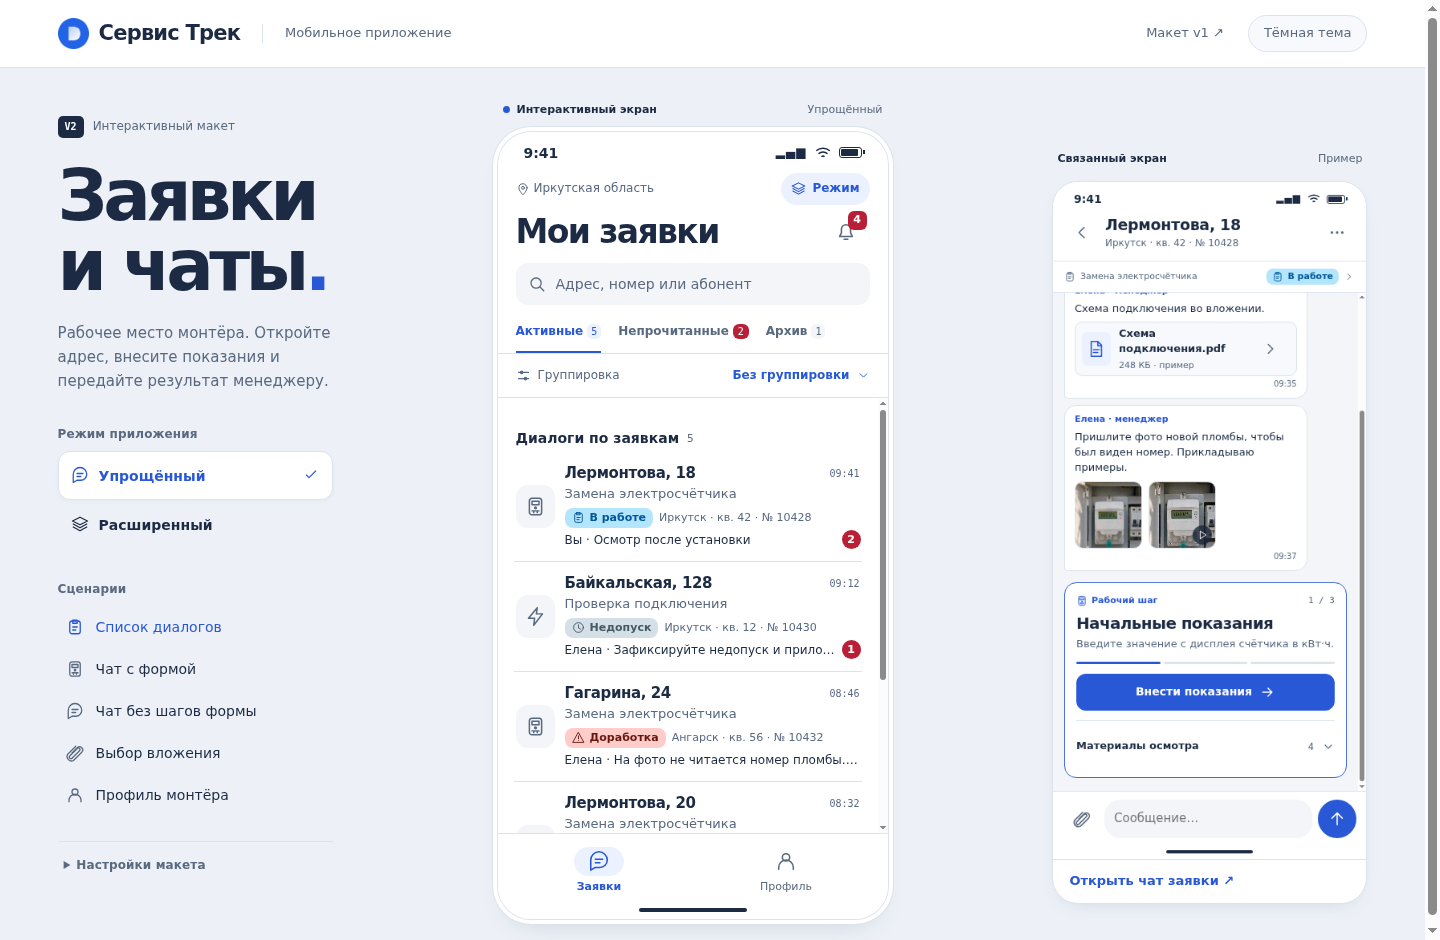
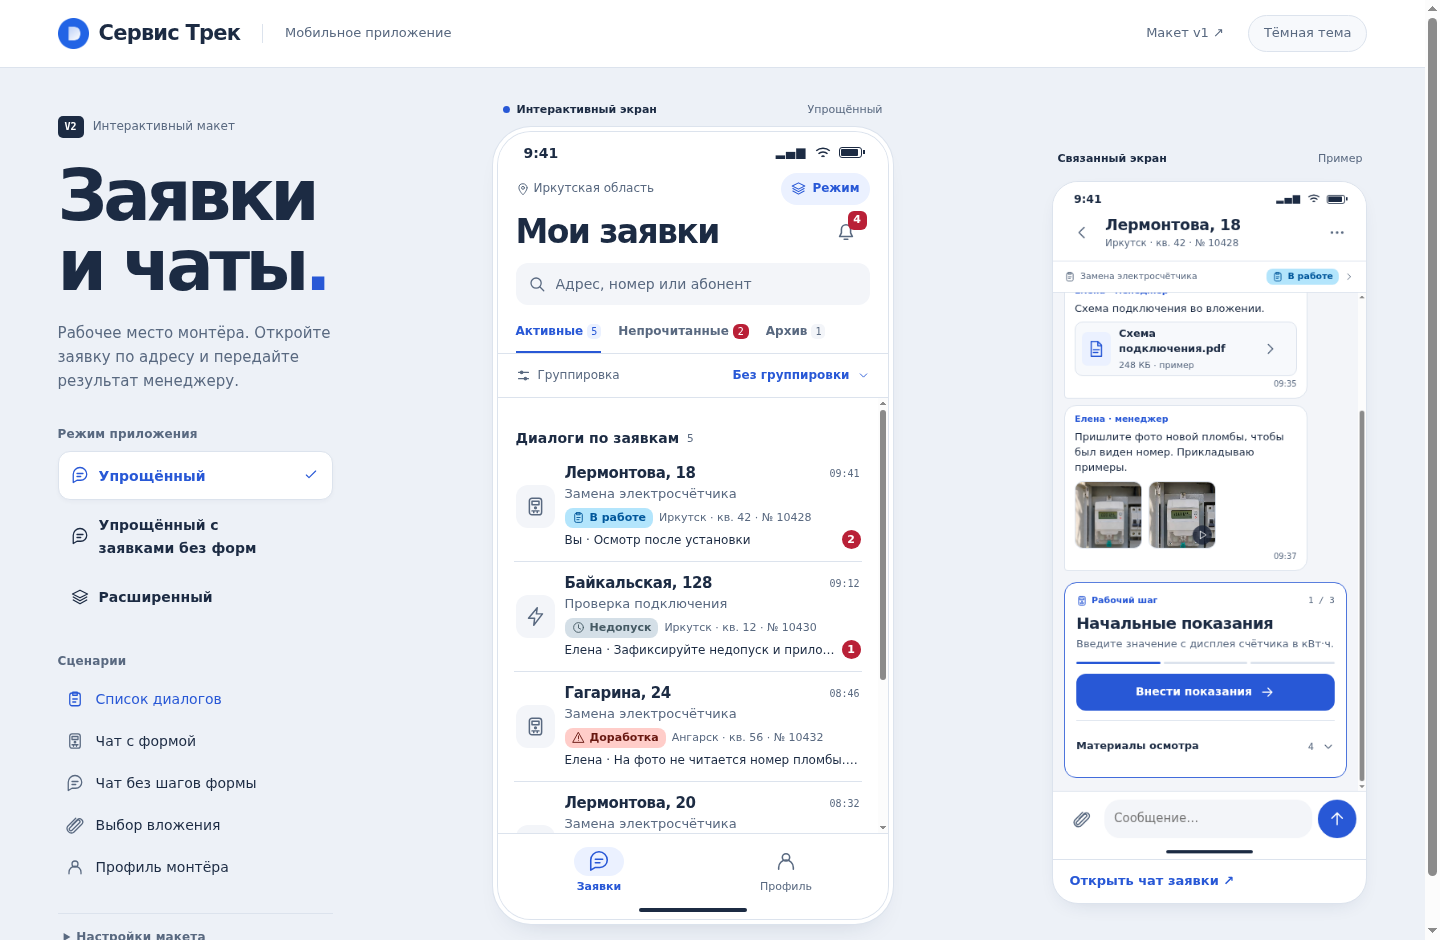
fix mobile v2

diff --git a/mobile/redesign/v2/app.js b/mobile/redesign/v2/app.js
@@ -14,11 +14,11 @@
   const groupingKey = 'service-track-mobile-v2-address-grouping';
   const chatGroupingKey = 'service-track-mobile-v2-chat-grouping';
   const modeKey = 'service-track-mobile-v2-mode';
-  s.mode = 'simple';
   try {
-    if (localStorage.getItem(modeKey) === 'expanded') s.mode = 'expanded';
+    const saved = localStorage.getItem(modeKey);
+    if (Object.hasOwn(K.studioModes, saved)) s.studioMode = saved;
   } catch {}
-  if (Object.hasOwn(K.modes, params.get('mode'))) s.mode = history.state?.mode || params.get('mode');
+  if (Object.hasOwn(K.studioModes, params.get('mode'))) s.studioMode = history.state?.mode || params.get('mode');
   let drafts = {};
   let readingEditor = '';
   s.attachmentDrafts = {};
@@ -94,13 +94,17 @@
   }
   function catalog() {
     const simple = s.mode === 'simple';
+    const noForms = s.studioMode === 'simple-no-forms';
     $('#studio-modes').innerHTML = K.modeChoices();
     const home = simple ? 'inbox' : s.listView;
     const checkpointId = simple ? 10428 : (K.requests.find((r) => r.status === 'IN_PROGRESS') || K.request()).id;
+    const workScenario = simple
+      ? ['chat', 'chat', 'Чат без шагов формы', noForms ? checkpointId : 10430]
+      : ['work', 'meter', 'Работа по заявке', checkpointId];
     const links = [
       [home, 'list', simple ? 'Список диалогов' : 'Очередь заявок'],
-      [simple ? 'chat' : 'work', 'meter', simple ? 'Чат с формой' : 'Работа по заявке', checkpointId],
-      ...(simple ? [['chat', 'chat', 'Чат без шагов формы', 10430]] : []),
+      ...(s.studioMode === 'simple' ? [['chat', 'meter', 'Чат с формой', checkpointId]] : []),
+      workScenario,
       [simple ? 'attach' : 'chats', simple ? 'clip' : 'chat', simple ? 'Выбор вложения' : 'Переписка', checkpointId],
       ['profile', 'user', 'Профиль монтёра'],
     ];
@@ -111,11 +115,12 @@
           : `<a href="${K.href(screen, id)}" ${s.screen === screen && (screen !== 'chat' || s.id === id) ? 'aria-current="page"' : ''}>${K.icon(icon)}${label}</a>`,
       )
       .join('');
-    $('#live-title').textContent = K.modes[s.mode];
+    $('#live-title').textContent = K.studioModes[s.studioMode];
     $('#studio-network').textContent = s.offline ? 'Восстановить связь' : 'Показать без сети';
     const list = [...mineLists, ...allLists, 'inbox', 'chats'].includes(s.screen);
     const target = list ? (simple ? 'chat' : 'chats') : home;
-    const img = simple ? (list ? 'thread' : 'inbox') : list ? 'chats' : 'queue';
+    const threadImage = noForms ? 'thread-simple-no-forms' : 'thread';
+    const img = simple ? (list ? threadImage : 'inbox') : list ? 'chats' : 'queue';
     const caption = simple
       ? list
         ? 'Открыть чат заявки'
@@ -149,7 +154,7 @@
     if (['locations', 'all-locations'].includes(s.screen)) renderedKey = s.screen + '/' + s.addressGrouping;
     else if (s.screen === 'inbox' || s.screen === 'chats')
       renderedKey = [s.screen, s.chatGrouping, s.screen === 'inbox' ? s.inboxFilter : ''].join('/');
-    else if (s.screen === 'chat') renderedKey = [s.screen, s.id, s.mode].join('/');
+    else if (s.screen === 'chat') renderedKey = [s.screen, s.id, s.studioMode].join('/');
     else renderedKey = s.screen + '/' + s.id;
     const newScroll = $('#app .scroll-content');
     if (newScroll)
@@ -202,7 +207,7 @@
         screen = 'chat';
     } else if (screen === 'inbox') screen = s.listView;
     if (screen !== requested) history.replaceState(history.state, '', K.href(screen, id));
-    if (params.has('mode')) history.replaceState({...history.state, mode: s.mode}, '');
+    if (params.has('mode')) history.replaceState({...history.state, mode: s.studioMode}, '');
     s.screen = screen;
     if (mineLists.includes(screen)) {
       s.listOrigin = s.listView = screen;
@@ -394,13 +399,10 @@
     $('#messages').scrollTop = $('#messages').scrollHeight;
   }
   function goToMode(mode) {
-    if (!Object.hasOwn(K.modes, mode)) return;
-    const same = s.mode === mode;
-    s.mode = mode;
-    if (params.has('mode')) {
-      // Explicit demo links choose the initial mode. A manual choice also survives reload.
-      history.replaceState({...history.state, mode}, '');
-    }
+    if (!Object.hasOwn(K.studioModes, mode)) return;
+    const same = s.studioMode === mode;
+    s.studioMode = mode;
+    if (params.has('mode')) history.replaceState({...history.state, mode}, '');
     try {
       localStorage.setItem(modeKey, mode);
     } catch {}
@@ -410,7 +412,7 @@
       return;
     }
     const working = ['chat', 'detail', 'work', 'stages', 'review', 'delay', 'complete'].includes(s.screen);
-    const target = working ? (mode === 'simple' ? 'chat' : 'detail') : home();
+    const target = working ? (s.mode === 'simple' ? 'chat' : 'detail') : home();
     go(target);
   }
   function chatStep() {
@@ -458,7 +460,10 @@
   }
   const actions = {
     'mode-menu': () => sheet('Режим приложения', '<div class="mode-options">' + K.modeChoices(true) + '</div>'),
-    'set-mode': (button) => goToMode(button.dataset.mode),
+    'set-mode': (button) => {
+      if ($('#sheet').contains(button) && button.dataset.mode === s.mode) return closeSheet();
+      goToMode(button.dataset.mode);
+    },
     'chat-group-menu': () => sheet('Группировка чатов', K.chatGroups.choices()),
     'set-chat-group': (button) => {
       const value = button.dataset.chatGrouping;

diff --git a/mobile/redesign/v2/conversations.js b/mobile/redesign/v2/conversations.js
@@ -61,13 +61,21 @@
     }
   };
   K.modes = {simple: 'Упрощённый', expanded: 'Расширенный'};
-  K.modeChoices = (description = false) =>
-    Object.entries(K.modes)
-      .map(
-        ([key, title]) =>
-          `<button class="mode-choice" data-action="set-mode" data-mode="${key}" aria-pressed="${s.mode === key}">${I(key === 'simple' ? 'chat' : 'layers')}<span><strong>${title}</strong>${description ? '<small>' + (key === 'simple' ? 'Заявка открывается как чат' : 'Заявки и чаты в разных разделах') + '</small>' : ''}</span><i>${s.mode === key ? I('check') : ''}</i></button>`,
-      )
+  K.studioModes = {
+    simple: K.modes.simple,
+    'simple-no-forms': 'Упрощённый с заявками без форм',
+    expanded: K.modes.expanded,
+  };
+  K.modeChoices = (inApp = false) => {
+    const selected = inApp ? s.mode : s.studioMode;
+    return Object.entries(inApp ? K.modes : K.studioModes)
+      .map(([key, title]) => {
+        const expanded = key === 'expanded';
+        const description = expanded ? 'Заявки и чаты в разных разделах' : 'Заявка открывается как чат';
+        return `<button class="mode-choice" data-action="set-mode" data-mode="${key}" aria-pressed="${selected === key}">${I(expanded ? 'layers' : 'chat')}<span><strong>${title}</strong>${inApp ? '<small>' + description + '</small>' : ''}</span><i>${selected === key ? I('check') : ''}</i></button>`;
+      })
       .join('');
+  };
   K.modeButton = () => `<button class="mode-trigger" data-action="mode-menu">${I('layers')}Режим</button>`;
   const latest = (r) => s.messages[r.id]?.at(-1);
   const address = (r) => `${r.street}, ${r.house}`;
@@ -177,6 +185,7 @@
     return photos + K.mediaUI.panel('work-extra', 'chat');
   }
   function workCard(r) {
+    if (s.studioMode !== 'simple') return '';
     if (r.status === 'EXECUTED') return K.button('Посмотреть отчёт', 'view-result', 'secondary', 'file');
     if (!r.hasChatFormSteps || !r.mine || s.pendingIds?.includes(r.id)) return '';
     const started = r.status === 'IN_PROGRESS';
@@ -202,7 +211,7 @@
       ) +
       `<button class="thread-context" data-action="chat-context"><span class="thread-type">${I('list')}${r.type}</span>${chatStatus(r)}${I('chevron')}</button>` +
       K.network() +
-      `<div class="scroll-content dialogue" id="messages"><div class="message-day"><span>Сегодня, 19 ноября</span></div>${(s.messages[r.id] || []).map((m) => entry(m, r)).join('') || '<div class="timeline-event">Начните переписку по этой заявке</div>'}${simple ? workCard(r) : ''}</div><div class="composer"><div class="draft-attachments">${s.attachments.map((f) => K.fileCard(f, true)).join('')}</div><form id="message-form" class="compose-row">${K.iconButton('clip', 'Прикрепить к сообщению', 'attach-chat')}<label class="grow"><span class="sr-only">Сообщение менеджеру</span><textarea id="message-text" rows="1" placeholder="Сообщение…">${E(s.chatText[r.id] || '')}</textarea></label><button class="icon-button send-button" type="submit" aria-label="Отправить сообщение">${I('up')}</button></form></div>`
+      `<div class="scroll-content dialogue" id="messages"><div class="message-day"><span>Сегодня, 19 ноября</span></div>${(s.messages[r.id] || []).map((m) => entry(m, r)).join('') || '<div class="timeline-event">Начните переписку по этой заявке</div>'}${workCard(r)}</div><div class="composer"><div class="draft-attachments">${s.attachments.map((f) => K.fileCard(f, true)).join('')}</div><form id="message-form" class="compose-row">${K.iconButton('clip', 'Прикрепить к сообщению', 'attach-chat')}<label class="grow"><span class="sr-only">Сообщение менеджеру</span><textarea id="message-text" rows="1" placeholder="Сообщение…">${E(s.chatText[r.id] || '')}</textarea></label><button class="icon-button send-button" type="submit" aria-label="Отправить сообщение">${I('up')}</button></form></div>`
     );
   };
 })();

diff --git a/mobile/redesign/v2/index.html b/mobile/redesign/v2/index.html
@@ -40,7 +40,7 @@
         <div class="version-line"><span class="version-tag">V2</span> Интерактивный макет</div>
         <h1>Заявки<br />и чаты<span>.</span></h1>
         <p class="guide-intro">
-          Рабочее место монтёра. Откройте адрес, внесите показания и передайте результат менеджеру.
+          Рабочее место монтёра. Откройте заявку по адресу и передайте результат менеджеру.
         </p>
         <section>
           <h2>Режим приложения</h2>

diff --git a/mobile/redesign/v2/data.js b/mobile/redesign/v2/data.js
@@ -131,6 +131,10 @@ Kontur.initialDraft = (id = 10428) => ({
   delayed: false,
 });
 Kontur.state = {
+  studioMode: 'simple',
+  get mode() {
+    return this.studioMode === 'expanded' ? 'expanded' : 'simple';
+  },
   screen: 'queue',
   id: 10428,
   listView: 'queue',

diff --git a/mobile/redesign/v2/README.md b/mobile/redesign/v2/README.md
@@ -12,6 +12,8 @@
 
 При первом открытии выбран упрощённый режим. Кнопка **«Режим»** есть на главном экране, пункт **«Режим приложения»** — в профиле и меню диалога. При смене режима из открытой заявки сохраняется её номер. Переписка, неотправленный текст, выбранные файлы и поля отчёта привязаны к этой заявке. Выбор режима запоминается в браузере. [Переключатель режимов](previews/modes.png).
 
+В левой панели макета кнопка **«Упрощённый с заявками без форм»** показывает те же назначения с перепиской без рабочих шагов. Откройте любой адрес в «Моих заявках», чтобы написать менеджеру или приложить файл. Можно открыть и завершённый диалог в «Архиве». [Открыть список](index.html?mode=simple-no-forms#inbox) · [Чат заявки № 10428](index.html?mode=simple-no-forms#chat/10428) · [Снимок макета](previews/overview-no-forms.png).
+
 В упрощённом режиме откройте в «Моих заявках» один из примеров. Шаги задаются в веб-интерфейсе системы, а макет воспроизводит эту настройку в данных каждой заявки.
 
 - **№ 10428 · Лермонтова, 18, кв. 42.** Под перепиской виден текущий шаг установки счётчика. [Открыть чат с формой](index.html?mode=simple#chat/10428) · [Снимок](previews/thread.png).
